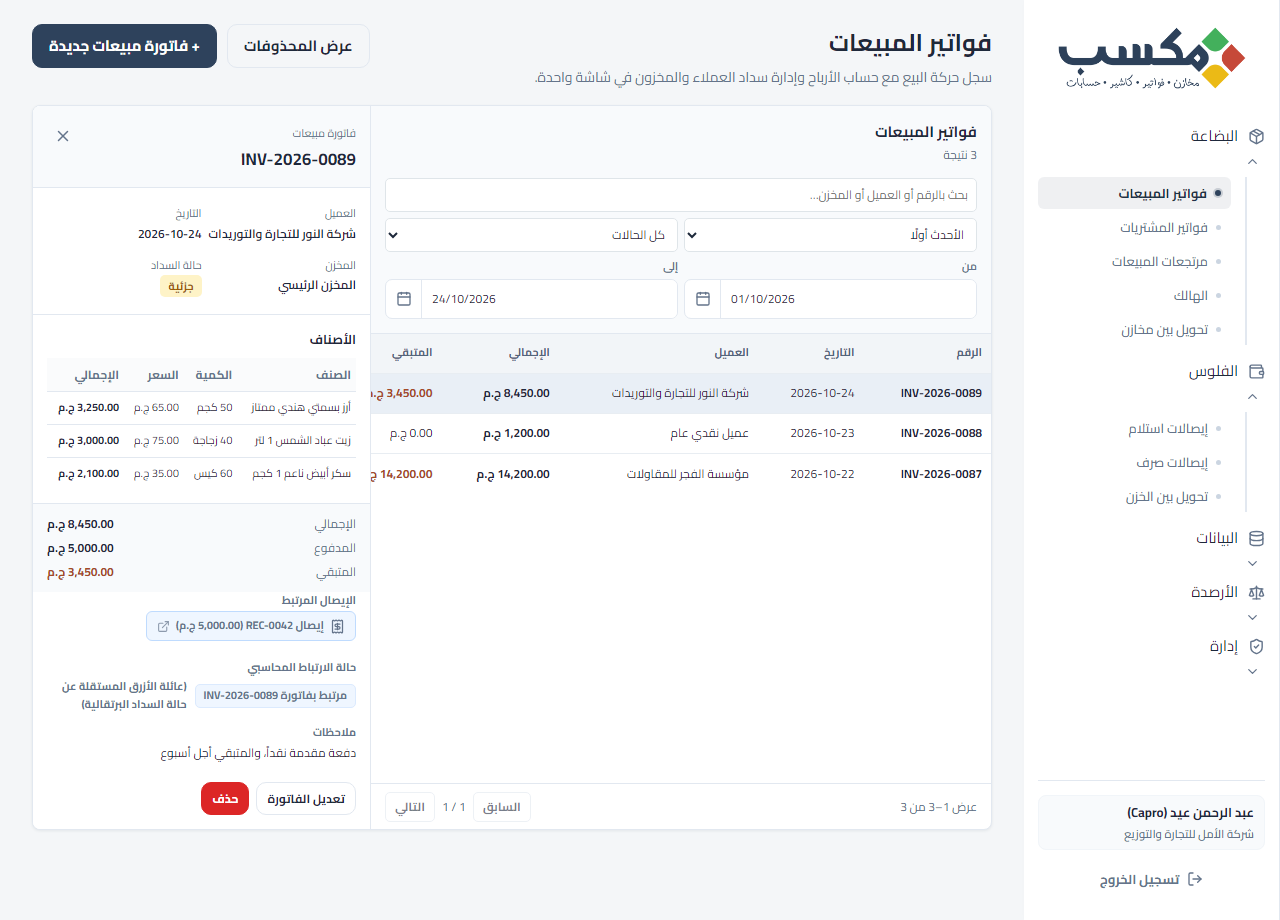
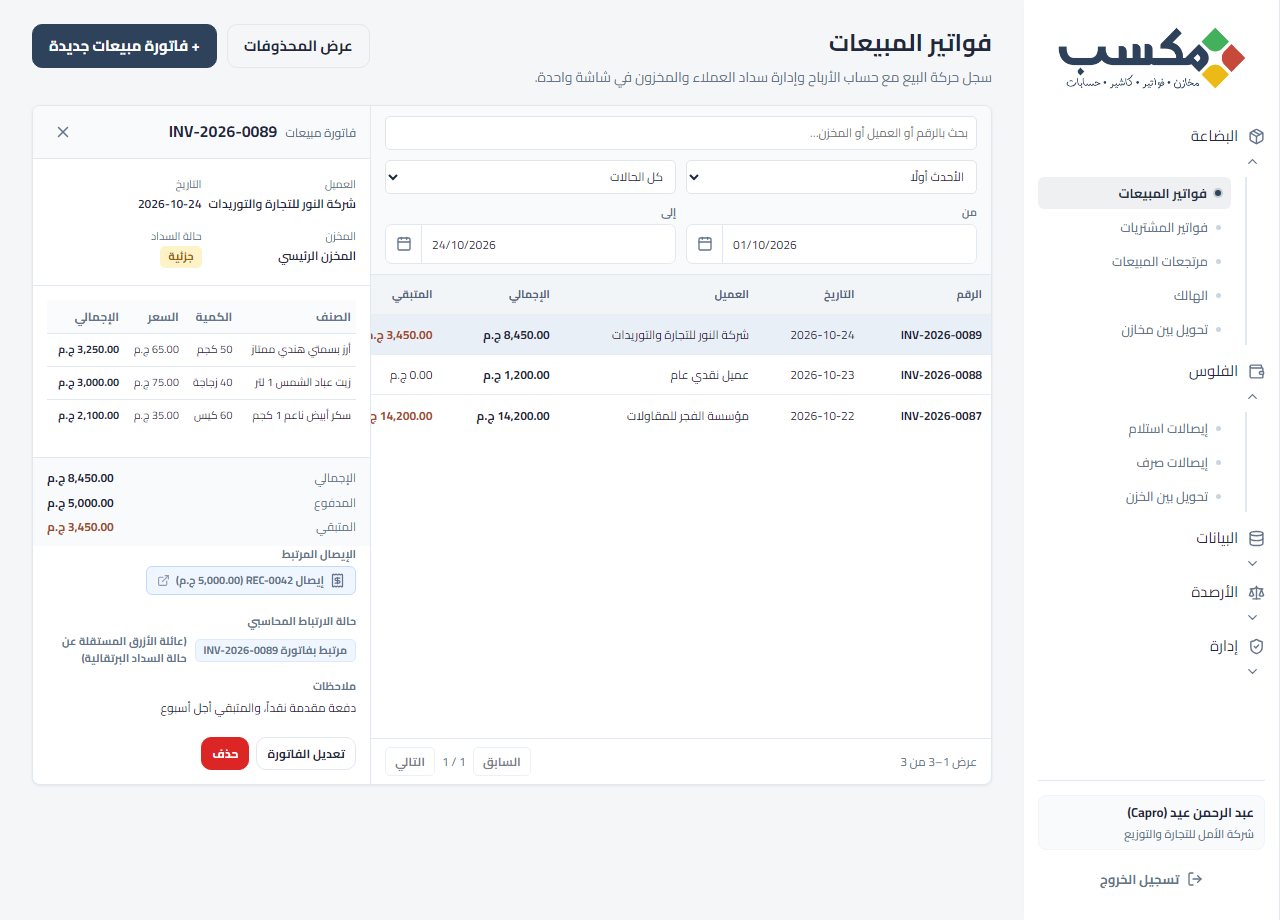
feat(ui): eliminate redundant toolbar title, align detail header in one line, and remove redundant items heading

diff --git a/src/index.css b/src/index.css
@@ -916,17 +916,15 @@ code {
 .erp-list-panel { min-width: 0; display: flex; flex-direction: column; container-type: inline-size; }
 .erp-toolbar {
   display: flex;
-  align-items: flex-end;
-  justify-content: space-between;
-  gap: var(--erp-space-3);
-  padding: var(--erp-space-3);
+  align-items: center;
+  justify-content: flex-start;
+  gap: var(--erp-space-2);
+  padding: 10px var(--erp-space-3);
   border-bottom: 1px solid var(--erp-border);
   background: var(--erp-surface-muted);
 }
-.erp-toolbar-title { display: grid; gap: 1px; white-space: nowrap; }
-.erp-toolbar-title strong { color: var(--erp-text); font-size: 15px; }
-.erp-toolbar-title span { color: var(--erp-muted); font-size: 12px; }
-.erp-filters { display: flex; align-items: end; justify-content: flex-end; flex-wrap: wrap; gap: var(--erp-space-1); }
+.erp-toolbar-title { display: none; }
+.erp-filters { display: flex; align-items: center; justify-content: flex-start; flex-wrap: wrap; gap: var(--erp-space-2); width: 100%; }
 .sr-only { position: absolute; width: 1px; height: 1px; padding: 0; margin: -1px; overflow: hidden; clip: rect(0, 0, 0, 0); white-space: nowrap; border: 0; }
 .erp-filters input,
 .erp-filters select {
@@ -1090,10 +1088,32 @@ code {
 .btn.compact { min-height: 29px; padding: 4px 9px; border-radius: 5px; font-size: 12px; }
 
 .erp-detail-panel { display: flex; flex-direction: column; min-width: 0; border-inline-start: 1px solid var(--erp-border); background: var(--erp-surface); }
-.erp-detail-head { display: flex; align-items: flex-start; justify-content: space-between; min-height: 72px; padding: var(--erp-space-3); border-bottom: 1px solid var(--erp-border); background: var(--erp-surface-muted); }
-.erp-detail-head span { color: var(--erp-muted); font-size: 11px; }
-.erp-detail-head h2 { margin-top: 2px; color: var(--erp-text); font-size: 17px; }
-.erp-detail-head .icon-btn { font-size: 22px; line-height: 1; }
+.erp-detail-head {
+  display: flex;
+  align-items: center;
+  justify-content: space-between;
+  min-height: 48px;
+  padding: 10px var(--erp-space-3);
+  border-bottom: 1px solid var(--erp-border);
+  background: var(--erp-surface-muted);
+}
+.erp-detail-head > div {
+  display: flex;
+  align-items: baseline;
+  gap: 8px;
+}
+.erp-detail-head span {
+  color: var(--erp-muted);
+  font-size: 12px;
+  font-weight: 550;
+}
+.erp-detail-head h2 {
+  margin: 0;
+  color: var(--erp-text);
+  font-size: 16px;
+  font-weight: 700;
+}
+.erp-detail-head .icon-btn { font-size: 20px; line-height: 1; }
 .erp-detail-empty { display: grid; place-content: center; gap: 5px; min-height: 230px; padding: 24px; color: var(--erp-muted); text-align: center; font-size: 13px; }
 .erp-detail-empty strong { color: var(--erp-text); font-size: 14px; }
 .erp-detail-summary { display: grid; grid-template-columns: 1fr 1fr; gap: 0; margin: 0; padding: var(--erp-space-2) var(--erp-space-3); border-bottom: 1px solid var(--erp-border); }

diff --git a/src/pages/Invoices.tsx b/src/pages/Invoices.tsx
@@ -534,10 +534,6 @@ export default function Invoices() {
       <div className={viewing || viewingTransfer ? 'erp-sales-workspace detail-open' : 'erp-sales-workspace'}>
         <section className="erp-list-panel" aria-label={`قائمة ${tabTitle}`}>
           <div className="erp-toolbar">
-            <div className="erp-toolbar-title">
-              <strong>{tabTitle}</strong>
-              <span>{activeTotalCount} نتيجة</span>
-            </div>
             <div className="erp-filters">
               <label className="erp-search">
                 <span className="sr-only">البحث</span>
@@ -735,7 +731,6 @@ export default function Invoices() {
                   </dl>
 
                   <div className="erp-detail-lines">
-                    <h3>أصناف التحويل</h3>
                     {viewingTransferLines.length === 0 ? <p className="muted">لا توجد أصناف.</p> : (
                       <table className="table subtable">
                         <thead><tr><th>الصنف</th><th className="num">الكمية</th><th className="num">تكلفة الوحدة</th></tr></thead>
@@ -794,7 +789,6 @@ export default function Invoices() {
                   </dl>
 
                   <div className="erp-detail-lines">
-                    <h3>الأصناف</h3>
                     {details.length === 0 ? <p className="muted">لا توجد سطور.</p> : (
                       <table className="table subtable">
                         <thead>

diff --git a/src/pages/PreviewPhase3And4.tsx b/src/pages/PreviewPhase3And4.tsx
@@ -273,10 +273,6 @@ export default function PreviewPhase3And4() {
             <div className="erp-sales-workspace detail-open">
               <section className="erp-list-panel" aria-label="قائمة فواتير المبيعات">
                 <div className="erp-toolbar">
-                  <div className="erp-toolbar-title">
-                    <strong>فواتير المبيعات</strong>
-                    <span>3 نتيجة</span>
-                  </div>
                   <div className="erp-filters">
                     <label className="erp-search">
                       <span className="sr-only">البحث</span>
@@ -404,7 +400,6 @@ export default function PreviewPhase3And4() {
                 </dl>
 
                 <div className="erp-detail-lines">
-                  <h3>الأصناف</h3>
                   <table className="table subtable">
                     <thead>
                       <tr>

diff --git a/src/pages/Receipts.tsx b/src/pages/Receipts.tsx
@@ -492,10 +492,6 @@ export default function Receipts() {
       <div className={viewing || viewingTransfer ? 'erp-sales-workspace detail-open' : 'erp-sales-workspace'}>
         <section className="erp-list-panel" aria-label={`قائمة ${tabTitle}`}>
           <div className="erp-toolbar">
-            <div className="erp-toolbar-title">
-              <strong>{tabTitle}</strong>
-              <span>{activeTotalCount} نتيجة</span>
-            </div>
             <div className="erp-filters">
               <label className="erp-search">
                 <span className="sr-only">البحث</span>
